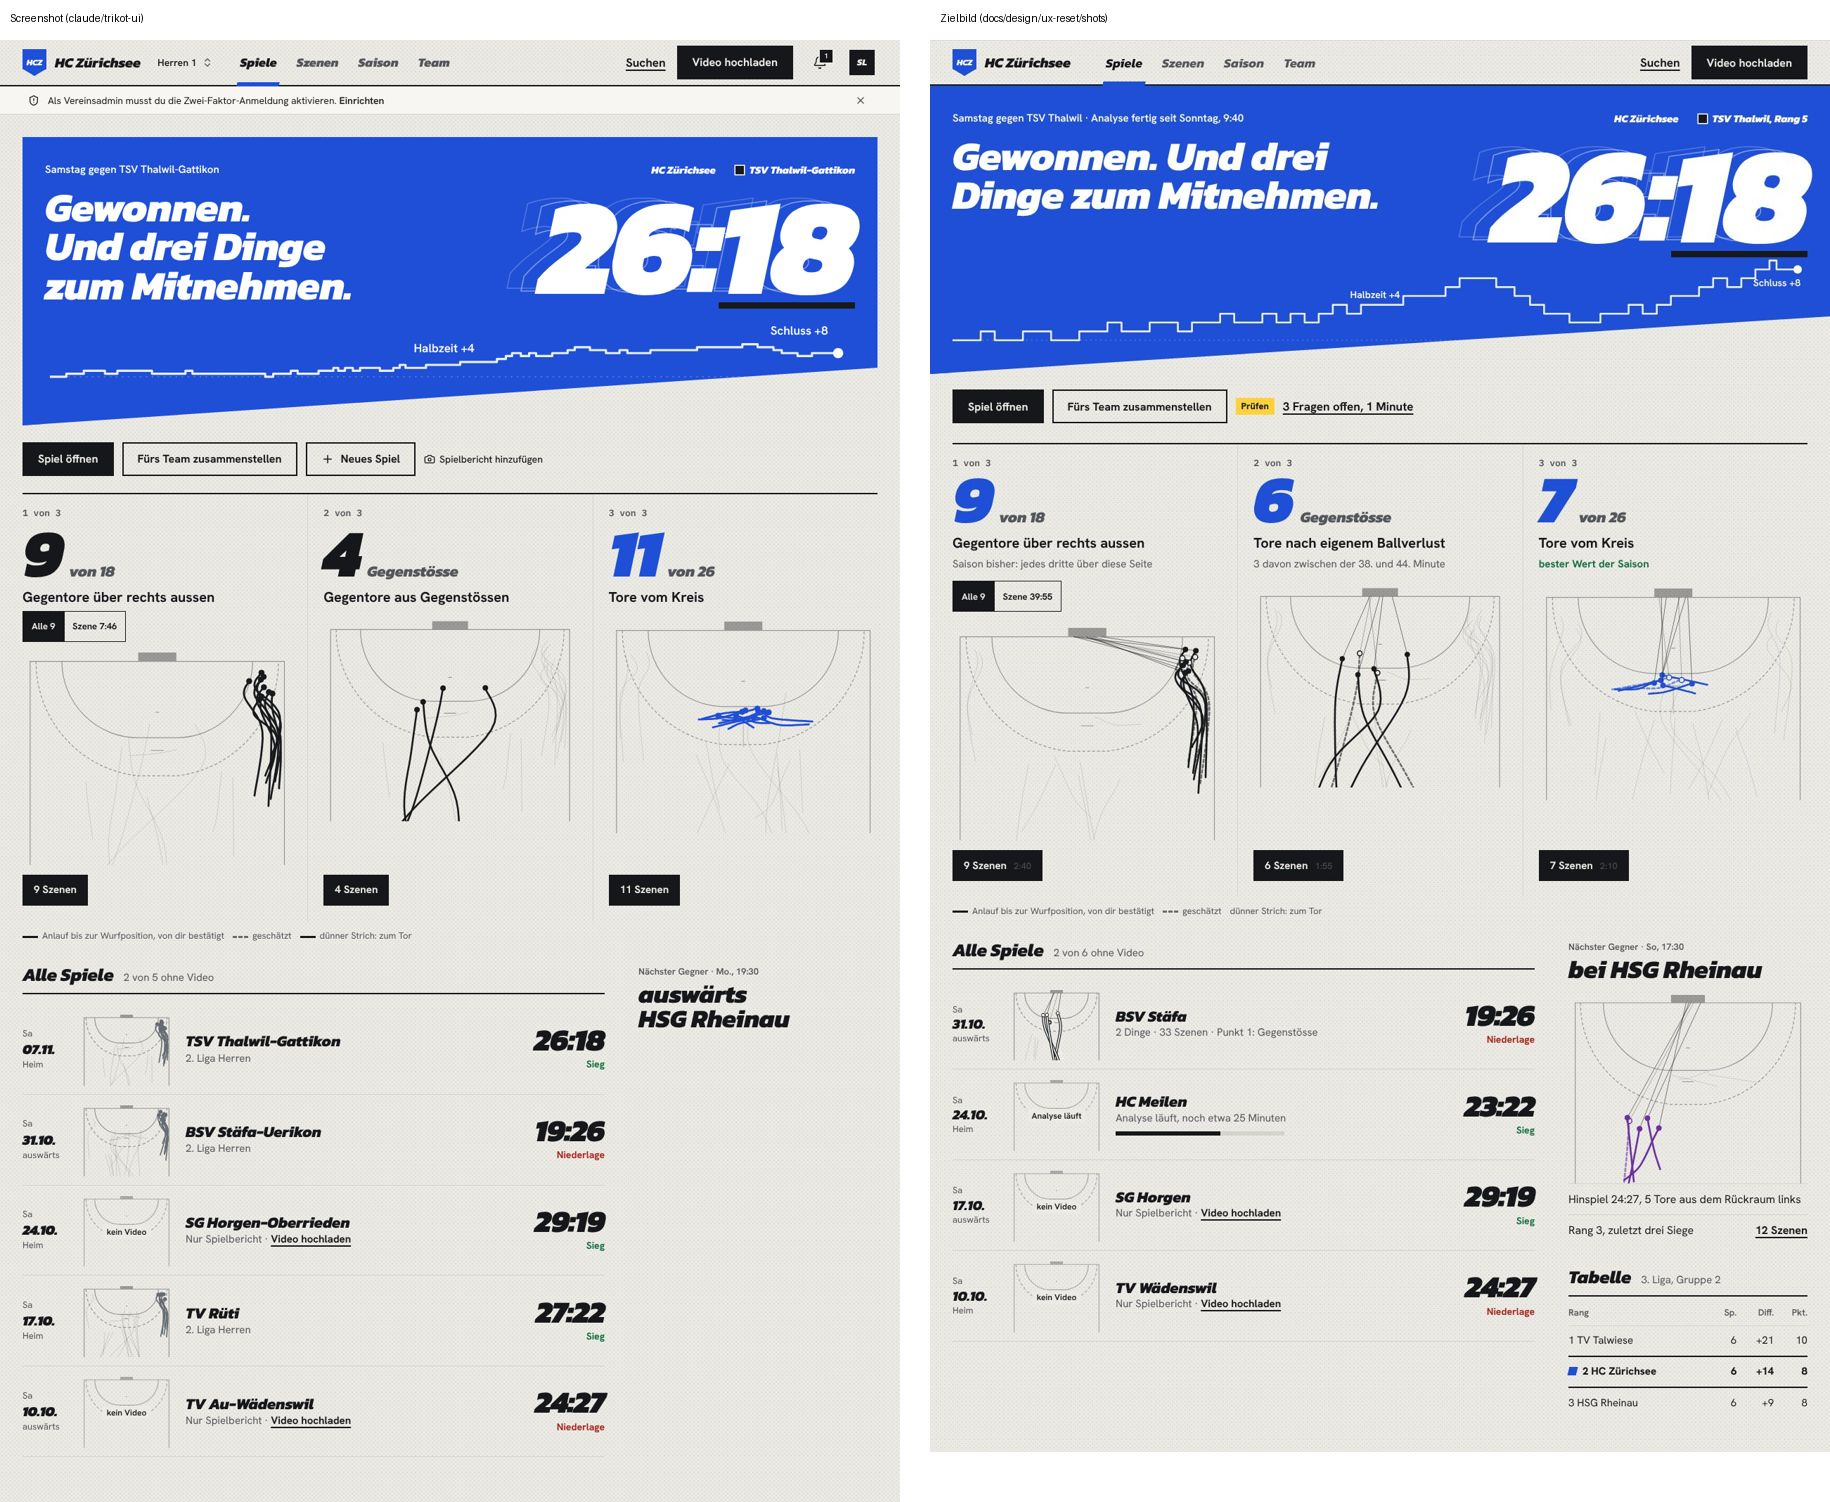
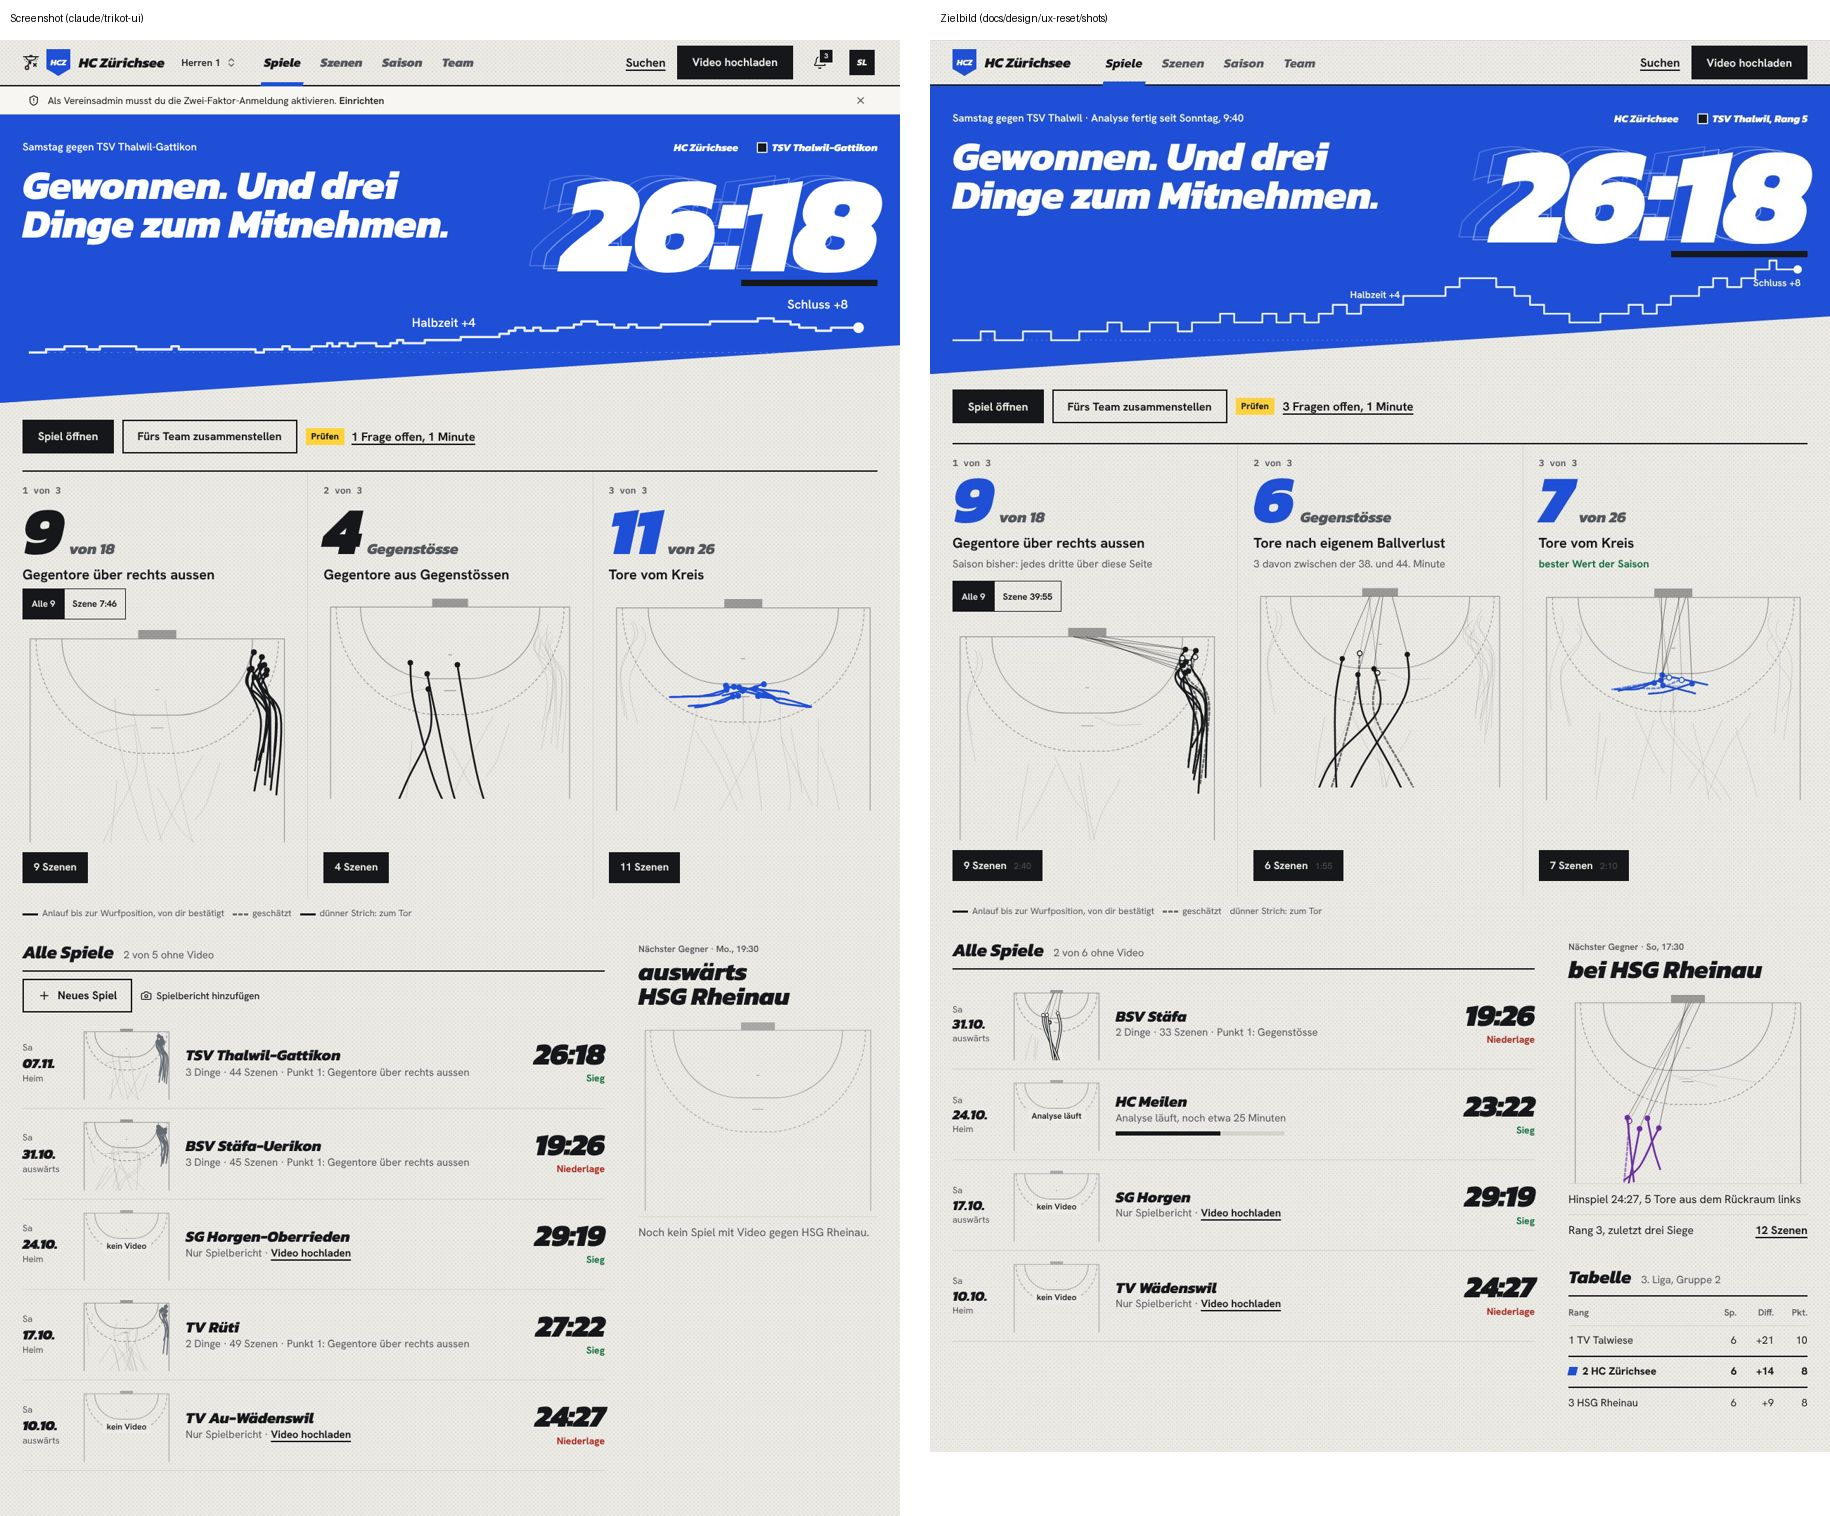
Start: head edge to edge, Prüfen in the action row, row summary, next opponent field
- The Wurf head runs edge to edge right under the top bar (desktop and phone).
- The action row holds what concerns the last match (open, collect, Prüfen with open
  questions); «Neues Spiel» and «Spielbericht hinzufügen» move to «Alle Spiele».
- Rows with video say «n Dinge · n Szenen · Punkt 1: …».
- The next opponent shows the Minifeld of the last duel with video and a line, or the empty
  field with «Noch kein Spiel mit Video gegen …».

Claude-Session: https://claude.ai/code/session_01H3gogAyqS8WiNWhNtD9sQ7

diff --git a/apps/web/src/app/app/[orgId]/teams/[teamId]/matches/start-view.tsx b/apps/web/src/app/app/[orgId]/teams/[teamId]/matches/start-view.tsx
@@ -42,13 +42,15 @@ export function StartView({
   const withoutVideo = played.filter((m) => !m.has_video).length;
   return (
     <div className="space-y-8">
-      <LastMatch orgId={orgId} m={last} next={next} teamName={org.name} canWrite={canWrite} club={[org.primary_color, org.secondary_color ?? null]} actions={actions} />
+      <LastMatch orgId={orgId} m={last} next={next} teamName={org.name} canWrite={canWrite} club={[org.primary_color, org.secondary_color ?? null]} />
       <div className="grid gap-12 lg:grid-cols-[minmax(0,1fr)_340px]">
         <section aria-labelledby="all-matches">
           <SectionHead
             title={<span id="all-matches">{t("allMatches")}</span>}
             note={withoutVideo > 0 ? t("withoutVideo", { count: withoutVideo, total: played.length }) : undefined}
           />
+          {/* a new match and a report are not actions on the last match: they belong to the list */}
+          {actions && <div className="-mt-1 mb-2 flex flex-wrap items-center gap-3">{actions}</div>}
           <ul className="m-0 list-none p-0" data-testid="match-list">
             {played.map((m) => (
               <li key={m.id}>
@@ -63,7 +65,7 @@ export function StartView({
   );
 }
 
-function LastMatch({ orgId, m, next, teamName, canWrite, club, actions }: { orgId: string; m: Match | null; next: Match | null; teamName: string; canWrite: boolean; club: [string, string | null]; actions?: ReactNode }) {
+function LastMatch({ orgId, m, next, teamName, canWrite, club }: { orgId: string; m: Match | null; next: Match | null; teamName: string; canWrite: boolean; club: [string, string | null] }) {
   const t = useTranslations("anlauf");
   const g = useMatchGraphics(orgId, m?.id ?? "");
   const head = useHeadProps(m, next, g.data ?? null, teamName);
@@ -72,7 +74,9 @@ function LastMatch({ orgId, m, next, teamName, canWrite, club, actions }: { orgI
   return (
     <div style={matchStyle(club, m?.opponent_color ? [m.opponent_color] : null) as CSSProperties} className="space-y-6">
       {/* no match played yet: the head waits (ink outline, no club area) and says what comes */}
-      <WurfHead {...head} />
+      <div className="bleed-x -mt-6 lg:-mt-8">
+        <WurfHead {...head} />
+      </div>
       <div className="flex flex-wrap items-center gap-3">
         {m && base && (
           <Link href={base} className={buttonClass("primary")} data-testid="open-match">
@@ -88,7 +92,6 @@ function LastMatch({ orgId, m, next, teamName, canWrite, club, actions }: { orgI
             </Link>
           </span>
         )}
-        {actions}
       </div>
       {m?.has_video && g.data && base && <ThreeThingsView orgId={orgId} matchId={m.id} graphics={g.data} oppName={m.opponent_name} hrefScenes={() => `${base}?tab=video`} />}
     </div>
@@ -147,6 +150,17 @@ function MiniField({ orgId, m, width = 128 }: { orgId: string; m: Match; width?:
   );
 }
 
+/** The second line of a match with video: its things, its scenes and Punkt 1. */
+function RowSummary({ orgId, m }: { orgId: string; m: Match }) {
+  const t = useTranslations("anlauf");
+  const text = useThingText();
+  const g = useMatchGraphics(orgId, m.id);
+  if (!g.data) return <>{m.competition}</>;
+  const things = threeThings(goalRuns(g.data));
+  const scenes = g.data.goals.filter((x) => x.has_video || x.source === "demo").length;
+  return <>{t("rowSummary", { things: things.length, scenes, first: things[0] ? text(things[0]) : "none" })}</>;
+}
+
 function GameRow({ orgId, m, canWrite }: { orgId: string; m: Match; canWrite: boolean }) {
   const t = useTranslations("anlauf");
   const tm = useTranslations("matches");
@@ -188,7 +202,7 @@ function GameRow({ orgId, m, canWrite }: { orgId: string; m: Match; canWrite: bo
               )}
             </>
           ) : (
-            m.competition
+            <RowSummary orgId={orgId} m={m} />
           )}
         </p>
       </div>
@@ -213,9 +227,13 @@ function NextOpponent({ orgId, next, played }: { orgId: string; next: Match; pla
   const t = useTranslations("anlauf");
   const format = useFormatter();
   const date = new Date(next.kickoff_at);
-  const met = played.find((m) => m.opponent_name === next.opponent_name && m.score_own != null);
+  // the last duel with video: its Minifeld and a line; otherwise say there is none yet
+  const met = played.find((m) => m.opponent_name === next.opponent_name && m.score_own != null && m.has_video);
+  const g = useMatchGraphics(orgId, met?.id ?? "");
+  const text = useThingText();
+  const first = g.data ? threeThings(goalRuns(g.data))[0] : undefined;
   return (
-    <section>
+    <section data-testid="next-opponent">
       <p className="m-0 text-[13px] font-semibold text-ink-2">
         {t("nextOpponent")} · {format.dateTime(date, { weekday: "short", hour: "2-digit", minute: "2-digit" })}
       </p>
@@ -224,12 +242,20 @@ function NextOpponent({ orgId, next, played }: { orgId: string; next: Match; pla
           {next.is_home ? next.opponent_name : `${t("away")} ${next.opponent_name}`}
         </Link>
       </h3>
-      {met && (
+      {met ? (
         <>
           <Link href={`/app/${orgId}/matches/${met.id}`} aria-hidden tabIndex={-1} className="block">
             <MiniField orgId={orgId} m={met} width={340} />
           </Link>
-          <p className="mt-2 mb-0 border-t border-rule py-2.5 text-base">{t("lastMeeting", { score: `${met.score_own}:${met.score_opponent}` })}</p>
+          <p className="mt-2 mb-0 border-t border-rule py-2.5 text-base">
+            {t("lastMeeting", { score: `${met.score_own}:${met.score_opponent}` })}
+            {first && `, ${text(first)}`}
+          </p>
+        </>
+      ) : (
+        <>
+          <EmptyField />
+          <p className="mt-2 mb-0 border-t border-rule py-2.5 text-base text-ink-2">{t("noVideoAgainst", { opponent: next.opponent_name })}</p>
         </>
       )}
     </section>
